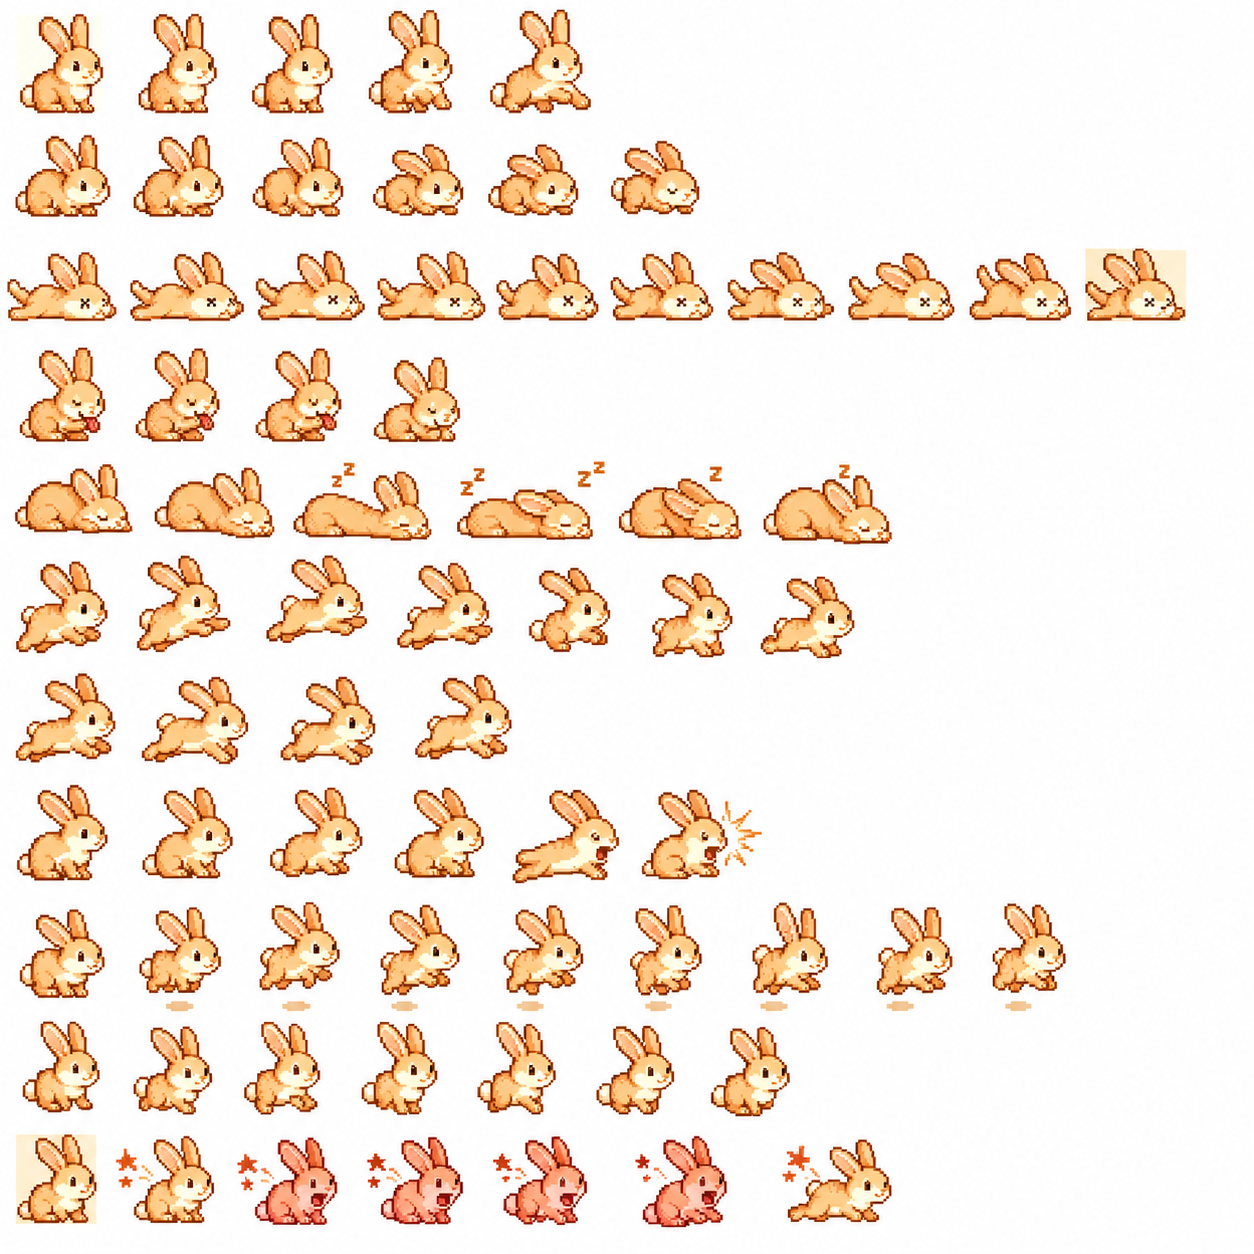
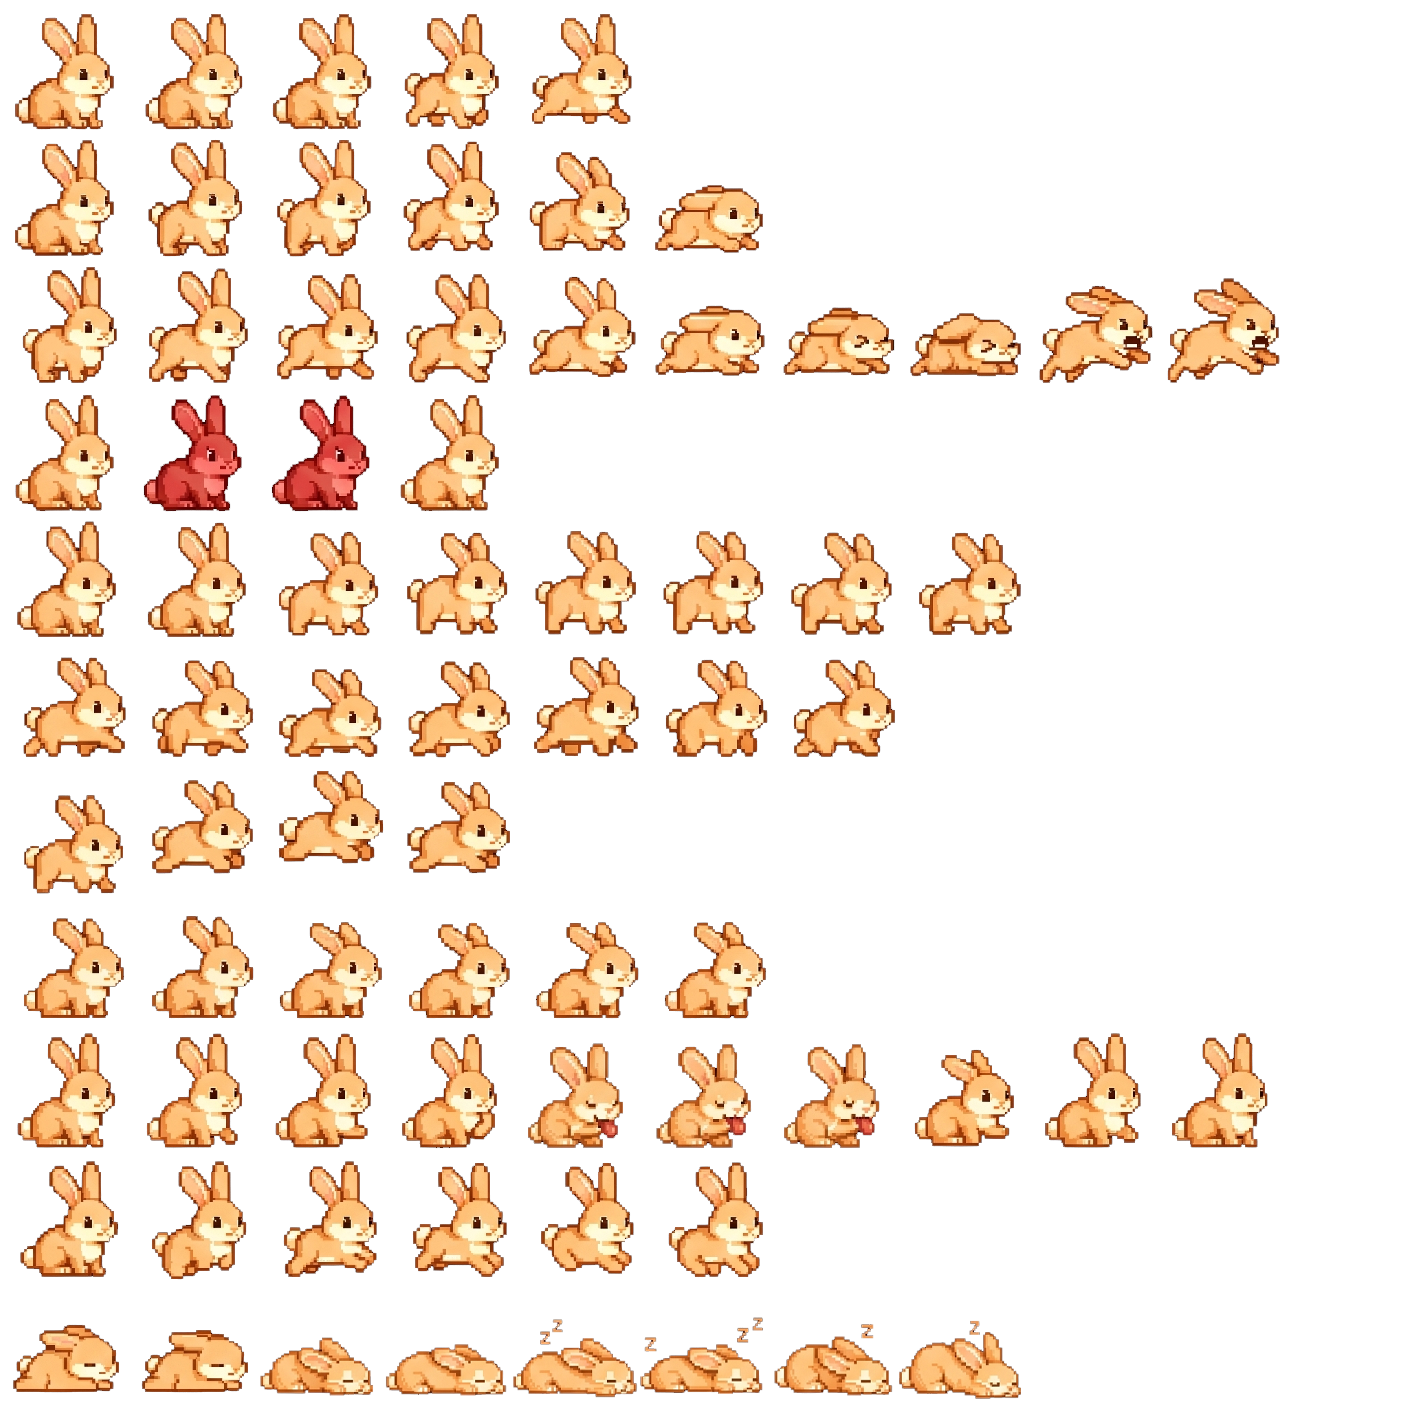
Add 4 sample sheets and long-press release for touch input
Right-click was the only way to remove the last frame, which is
unreachable on tablets. Add a 500ms long-press gesture on the stage
that triggers the same removeLastGrid/removeLastFreepick path, with a
red dashed cell outline and SVG progress ring as feedback. Movement
beyond 4px cancels the press and falls through to drag-box selection.
Also register capybara/cogi/persian/poodle in images/manifest.json and
harden .sheet-list with scrollbar-gutter and a max-height cap so the
sidebar layout stays stable as the catalog grows.

diff --git a/js/sheet.js b/js/sheet.js
@@ -186,17 +186,25 @@ const sheetState = {
 
 let stage, image, overlay, dragBox;
 let hoverBox = null;
+let pressIndicator = null;
 let pointerDown = false;
 let pointerButton = 0;
 let dragStarted = false;
 let dragStart = null;
 let resizeObserver = null;
 
+const LONG_PRESS_MS = 500; // keep in sync with .press-indicator transition in styles.css
+const LONG_PRESS_MOVE_TOL = 4;
+let pressTimer = null;
+let longPressFired = false;
+let pressOrigin = null;
+
 export function initSheetView(refs) {
   stage = refs.stage;
   image = refs.image;
   overlay = refs.overlay;
   dragBox = refs.dragBox;
+  pressIndicator = refs.pressIndicator || document.getElementById('press-indicator');
 
   overlay.addEventListener('pointerdown', onPointerDown);
   window.addEventListener('pointermove', onPointerMove);
@@ -581,8 +589,14 @@ function onPointerDown(e) {
   pointerDown = true;
   pointerButton = e.button;
   dragStarted = false;
+  longPressFired = false;
   dragStart = { x: e.clientX, y: e.clientY };
-  if (e.button === 0) overlay.setPointerCapture?.(e.pointerId);
+  if (e.button === 0) {
+    overlay.setPointerCapture?.(e.pointerId);
+    pressOrigin = { x: e.clientX, y: e.clientY };
+    showPressIndicator(e.clientX, e.clientY);
+    pressTimer = setTimeout(triggerLongPress, LONG_PRESS_MS);
+  }
 }
 
 function onPointerMove(e) {
@@ -590,6 +604,7 @@ function onPointerMove(e) {
   if (pointerButton !== 0) return;
   const dx = e.clientX - dragStart.x;
   const dy = e.clientY - dragStart.y;
+  if (Math.hypot(dx, dy) >= LONG_PRESS_MOVE_TOL) cancelLongPress();
   if (!dragStarted && Math.hypot(dx, dy) < 4) return;
   dragStarted = true;
 
@@ -645,6 +660,8 @@ function onPointerUp(e) {
   const wasButton = pointerButton;
   pointerDown = false;
   dragBox.classList.add('hidden');
+  cancelLongPress();
+  if (longPressFired) { dragStarted = false; return; }
   if (wasButton !== 0) { dragStarted = false; return; }
 
   if (sheetState.mode === 'grid') {
@@ -687,6 +704,98 @@ function onContextMenu(e) {
     if (!comp) return;
     removeLastFreepick(comp);
   }
+}
+
+function triggerLongPress() {
+  pressTimer = null;
+  if (!pointerDown || pointerButton !== 0 || dragStarted || !pressOrigin) {
+    hidePressIndicator();
+    return;
+  }
+  longPressFired = true;
+  hidePressIndicator();
+  const { x, y } = pressOrigin;
+  if (sheetState.mode === 'grid') {
+    if (sheetState.columns === 0) return;
+    const idx = cellIndexAtPoint(x, y);
+    if (idx < 0 || sheetState.emptyCells.has(idx)) return;
+    removeLastGrid(idx);
+  } else if (sheetState.mode === 'freepick') {
+    const comp = pickComponent(x, y);
+    if (!comp) return;
+    removeLastFreepick(comp);
+  }
+}
+
+function cancelLongPress() {
+  if (pressTimer) { clearTimeout(pressTimer); pressTimer = null; }
+  hidePressIndicator();
+}
+
+function cellRectAtIndex(idx) {
+  const overlayRect = overlay.getBoundingClientRect();
+  if (sheetState.columns === 0 || sheetState.rows === 0) return null;
+  const cellW = overlayRect.width / sheetState.columns;
+  const cellH = overlayRect.height / sheetState.rows;
+  const c = idx % sheetState.columns;
+  const r = (idx / sheetState.columns) | 0;
+  return {
+    left: overlayRect.left + c * cellW,
+    top: overlayRect.top + r * cellH,
+    width: cellW,
+    height: cellH,
+  };
+}
+
+function componentClientRect(comp) {
+  const rect = overlay.getBoundingClientRect();
+  const W = sheetState.imageWidth || 1;
+  const H = sheetState.imageHeight || 1;
+  return {
+    left: rect.left + (comp.x / W) * rect.width,
+    top: rect.top + (comp.y / H) * rect.height,
+    width: (comp.w / W) * rect.width,
+    height: (comp.h / H) * rect.height,
+  };
+}
+
+function currentTargetRect(clientX, clientY) {
+  if (sheetState.mode === 'grid') {
+    if (sheetState.columns === 0) return null;
+    const idx = cellIndexAtPoint(clientX, clientY);
+    if (idx < 0 || sheetState.emptyCells.has(idx)) return null;
+    return cellRectAtIndex(idx);
+  }
+  if (sheetState.mode === 'freepick') {
+    const comp = pickComponent(clientX, clientY);
+    if (!comp) return null;
+    return componentClientRect(comp);
+  }
+  return null;
+}
+
+function showPressIndicator(clientX, clientY) {
+  if (!pressIndicator || !stage) return;
+  const rect = currentTargetRect(clientX, clientY);
+  if (!rect) return;
+  const stageRect = stage.getBoundingClientRect();
+  pressIndicator.style.left   = `${rect.left - stageRect.left + stage.scrollLeft}px`;
+  pressIndicator.style.top    = `${rect.top  - stageRect.top  + stage.scrollTop}px`;
+  pressIndicator.style.width  = `${rect.width}px`;
+  pressIndicator.style.height = `${rect.height}px`;
+  pressIndicator.classList.remove('hidden');
+  pressIndicator.classList.remove('active');
+  // Force reflow so the next frame triggers the stroke-dashoffset transition.
+  void pressIndicator.offsetWidth;
+  requestAnimationFrame(() => {
+    if (pressIndicator) pressIndicator.classList.add('active');
+  });
+}
+
+function hidePressIndicator() {
+  if (!pressIndicator) return;
+  pressIndicator.classList.remove('active');
+  pressIndicator.classList.add('hidden');
 }
 
 function appendGridIndices(indices) {

diff --git a/styles.css b/styles.css
@@ -514,8 +514,10 @@ input[type="radio"] {
   display: flex;
   flex-direction: column;
   gap: 4px;
-  max-height: 35vh;
+  min-height: 0;
+  max-height: min(35vh, 320px);
   overflow: auto;
+  scrollbar-gutter: stable;
 }
 .sheet-item {
   display: grid;
@@ -909,6 +911,37 @@ input[type="radio"] {
   background: var(--accent-soft);
   pointer-events: none;
   z-index: 5;
+}
+
+/* Long-press release feedback. Transition duration must match LONG_PRESS_MS in js/sheet.js. */
+.press-indicator {
+  position: absolute;
+  border: 2px dashed #d4574a;
+  border-radius: 4px;
+  background: rgba(212, 87, 74, 0.08);
+  pointer-events: none;
+  z-index: 6;
+  display: grid;
+  place-items: center;
+}
+.press-indicator.hidden { display: none; }
+.press-ring { width: 28px; height: 28px; transform: rotate(-90deg); }
+.press-ring-track {
+  fill: none;
+  stroke: rgba(212, 87, 74, 0.25);
+  stroke-width: 3;
+}
+.press-ring-progress {
+  fill: none;
+  stroke: #d4574a;
+  stroke-width: 3;
+  stroke-linecap: round;
+  stroke-dasharray: 94.25;
+  stroke-dashoffset: 94.25;
+}
+.press-indicator.active .press-ring-progress {
+  transition: stroke-dashoffset 500ms linear;
+  stroke-dashoffset: 0;
 }
 
 .drop-hint {

diff --git a/index.html b/index.html
@@ -237,6 +237,12 @@
             <div id="grid-overlay" class="grid-overlay"></div>
           </div>
           <div id="drag-box" class="drag-box hidden"></div>
+          <div id="press-indicator" class="press-indicator hidden" aria-hidden="true">
+            <svg class="press-ring" viewBox="0 0 36 36">
+              <circle class="press-ring-track" cx="18" cy="18" r="15" />
+              <circle class="press-ring-progress" cx="18" cy="18" r="15" />
+            </svg>
+          </div>
         </div>
         <div id="sheet-empty" class="sheet-empty hidden">
           <svg class="empty-art" viewBox="0 0 64 64" aria-hidden="true">